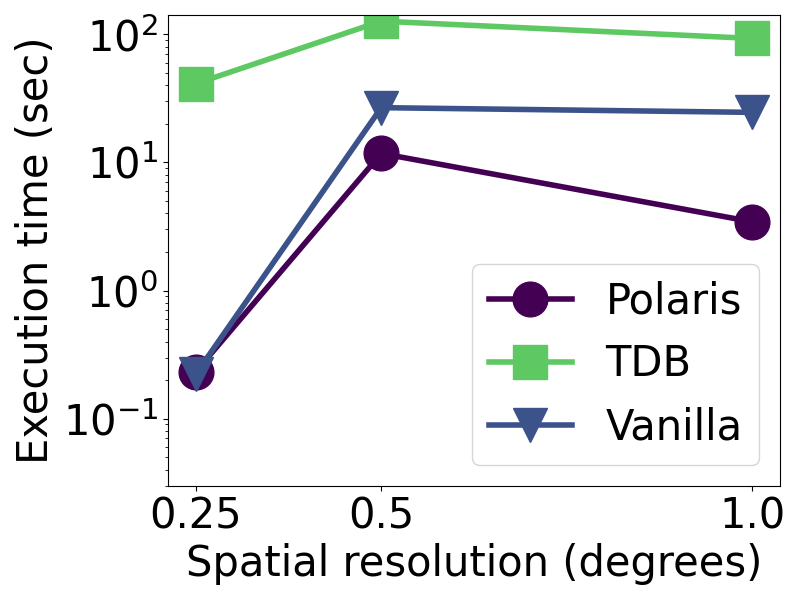
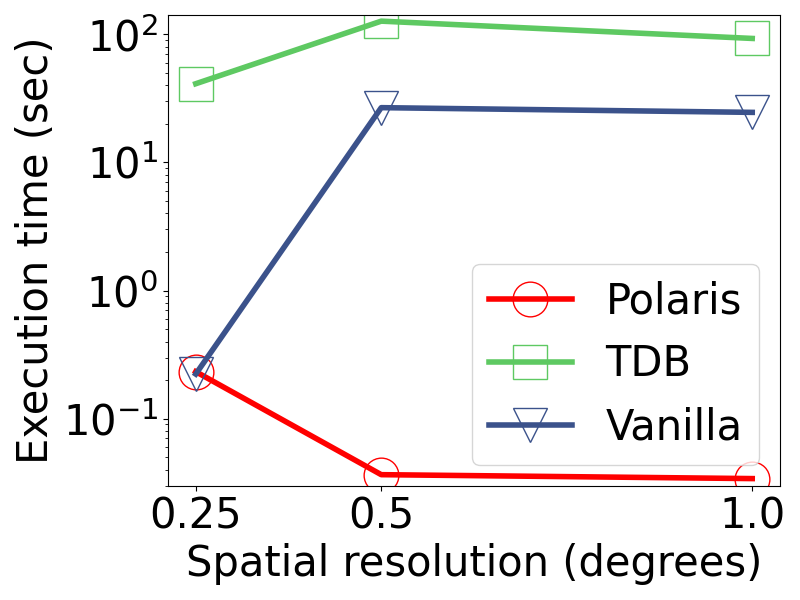
fix 5c

diff --git a/round2/figs/code/5aplot.py b/round2/figs/code/5aplot.py
@@ -3,31 +3,31 @@ import matplotlib.pyplot as plt
 import matplotlib
 
 # Load the CSV file
-csv_file_path = "/data/experiment-kit/round2/results/5c_all.csv"
+csv_file_path = "/data/experiment-kit/round2/results/5a_all.csv"
 df = pd.read_csv(csv_file_path)
 
-cur_plot = "t_res"
-x = "s_res"
+# cur_plot = "s_res"
+x = "t_res"
 line = "sys"
 y = "total_time"
 
 # Get unique plot values
-unique_plots = df[cur_plot].unique()
+unique_plots = ["025_H", "025_Y", "05_M", "1_H", "1_Y"]
 
 marker_size = 25
-m_fill = "none"
+m_fill="none"
 font_size = 30
 tick_font_size = 30
 tick_size = 30
-tick_list = [0.25, 0.5, 1.0]
-tick_labels = tick_list
+tick_list = [0, 1, 2, 3]
+tick_labels = [1, 25, 50, 100]
 line_width = 4
 above = "bottom"
 below = "top"
 y_label = "Execution time (sec)"
 viridis = matplotlib.colormaps["viridis"]
 colors = [viridis(i) for i in [0, 0.25, 0.5, 0.75]]
-x_label = "Spatial resolution (degrees)"
+x_label = "Temporal resolution"
 
 # Define style dictionary based on 'line' values
 style_dict = {
@@ -43,29 +43,19 @@ y_max = df[y].max()
 # Generate and save individual plots
 for plot_value in unique_plots:
     fig, ax = plt.subplots(figsize=(8, 6))
-    subset = df[df[cur_plot] == plot_value] # df[df[t_res]]==hour
+    subset = df[df[cur_plot] == plot_value]
     
     for line_value in subset[line].unique():
-        line_data = subset[subset[line] == line_value]  # df[df[system] == polaris]
-
-        if line_value == "Polaris":
-            line_data = line_data.groupby(x, as_index=False)["tr"].mean()   # Average over tr values
-        else:
-            line_data = line_data.groupby(x, as_index=False)[y].mean()  # Average over x values
-        
+        line_data = subset[subset[line] == line_value]
+        line_data = line_data.groupby(x, as_index=False)[y].mean()  # Average over x values
         line_data = line_data.sort_values(by=x)  # Ensure lines are connected correctly
-
+        
         # Get style properties from dictionary, use defaults if not found
         style = style_dict.get(line_value, {"marker": "o", "markersize": 4, "linewidth": 1.5, "color": "black", "labelsize": 10, "ticksize": 8})
         
-        if line_value == "Polaris":
-            ax.plot(line_data[x], line_data["tr"], 
-                    marker=style["marker"], markersize=style["markersize"], fillstyle=m_fill,
-                    linewidth=style["linewidth"], color=style["color"], label=f"{line_value}")
-        else:
-            ax.plot(line_data[x], line_data[y], 
-                    marker=style["marker"], markersize=style["markersize"], fillstyle=m_fill,
-                    linewidth=style["linewidth"], color=style["color"], label=f"{line_value}")
+        ax.plot(line_data[x], line_data[y], 
+                marker=style["marker"], markersize=style["markersize"], fillstyle=m_fill,
+                linewidth=style["linewidth"], color=style["color"], label=f"{line_value}")
     
     ax.set_xlabel(x_label, fontsize=font_size)
     if style["ticklist"] is not None:
@@ -73,15 +63,15 @@ for plot_value in unique_plots:
     ax.set_ylabel(y_label, fontsize=font_size)
     ax.set_yscale("log")  # Set y-axis to log scale
     ax.set_ylim(y_min, y_max)
-    ax.legend(fontsize=font_size)
+    ax.legend(fontsize=font_size-5)
     ax.tick_params(axis='both', labelsize=tick_font_size)
     
     # test
     plt.tight_layout()
-    plt.savefig(f"/data/experiment-kit/round2/figs/f1_test/5c_{plot_value}.png")  # Save the plot to a file
+    plt.savefig(f"/data/experiment-kit/round2/figs/f1_test/5a_{plot_value}.png")  # Save the plot to a file
     plt.close(fig)
 
-    # final
+    # # final
     # plt.tight_layout()
-    # plt.savefig(f"/data/experiment-kit/round2/figs/5c_eps/5c_{plot_value}.eps")  # Save the plot to a file
+    # plt.savefig(f"/data/experiment-kit/round2/figs/5a_eps/5a_{plot_value}.eps")  # Save the plot to a file
     # plt.close(fig)

diff --git a/round2/driver.py b/round2/driver.py
@@ -11,7 +11,8 @@ sys.path.append(os.path.join(main_dir, "round2/executors"))
 
 t_res = ["hour", "day", "month", "year"]
 s_res = [0.25, 0.5, 1.0]
-sys_list = ["TDB"]
+# sys_list = ["TDB"]
+sys_list = ["Polaris"]
 
 df_query = pd.read_csv(f"/data/experiment-kit/round2/tests/5c.csv")
 
@@ -64,7 +65,7 @@ for cur_sys in sys_list:
                     tr = -1
 
                 if tr != -1:
-                    if cur_sys == "Polaris" and s == 0.25 and t == "hour":
+                    if cur_sys == "Polaris":
                         ta = 0
                     else:
                         ta = qe.agg()

diff --git a/round2/executors/proposed/query_executor_get_raster.py b/round2/executors/proposed/query_executor_get_raster.py
@@ -130,12 +130,6 @@ class GetRasterExecutor(QueryExecutor):
         #     ds = xr.merge([i.chunk() for i in ds_list], compat="override")
 
         self.ds = xr.concat([i.chunk() for i in ds_list], dim="time")
-        tr = time.time() - t0
-        return tr
-    
-    def agg(self):
-        ds_copy = self.ds.copy(deep=True)
-        t0 = time.time()
-        ds_copy.compute()
+        self.ds.compute()
         
         return time.time() - t0
